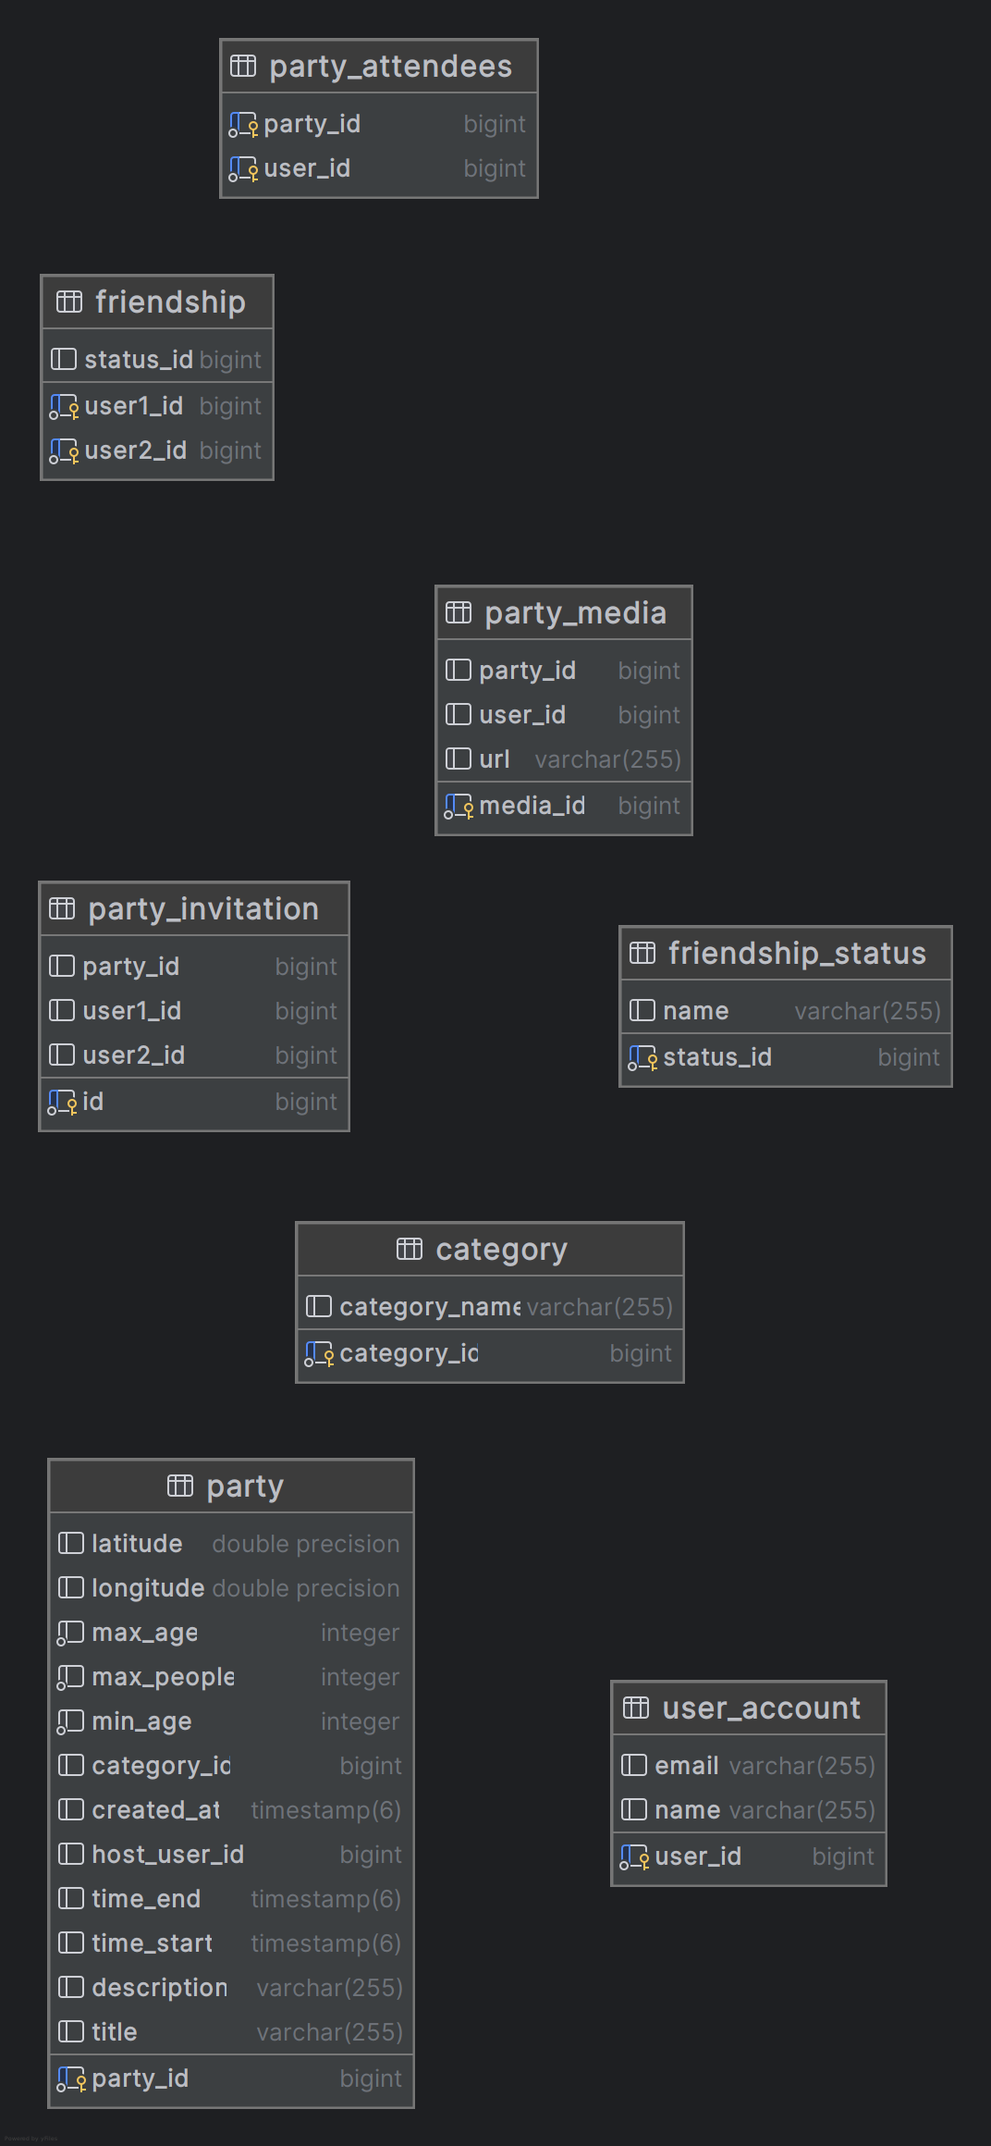
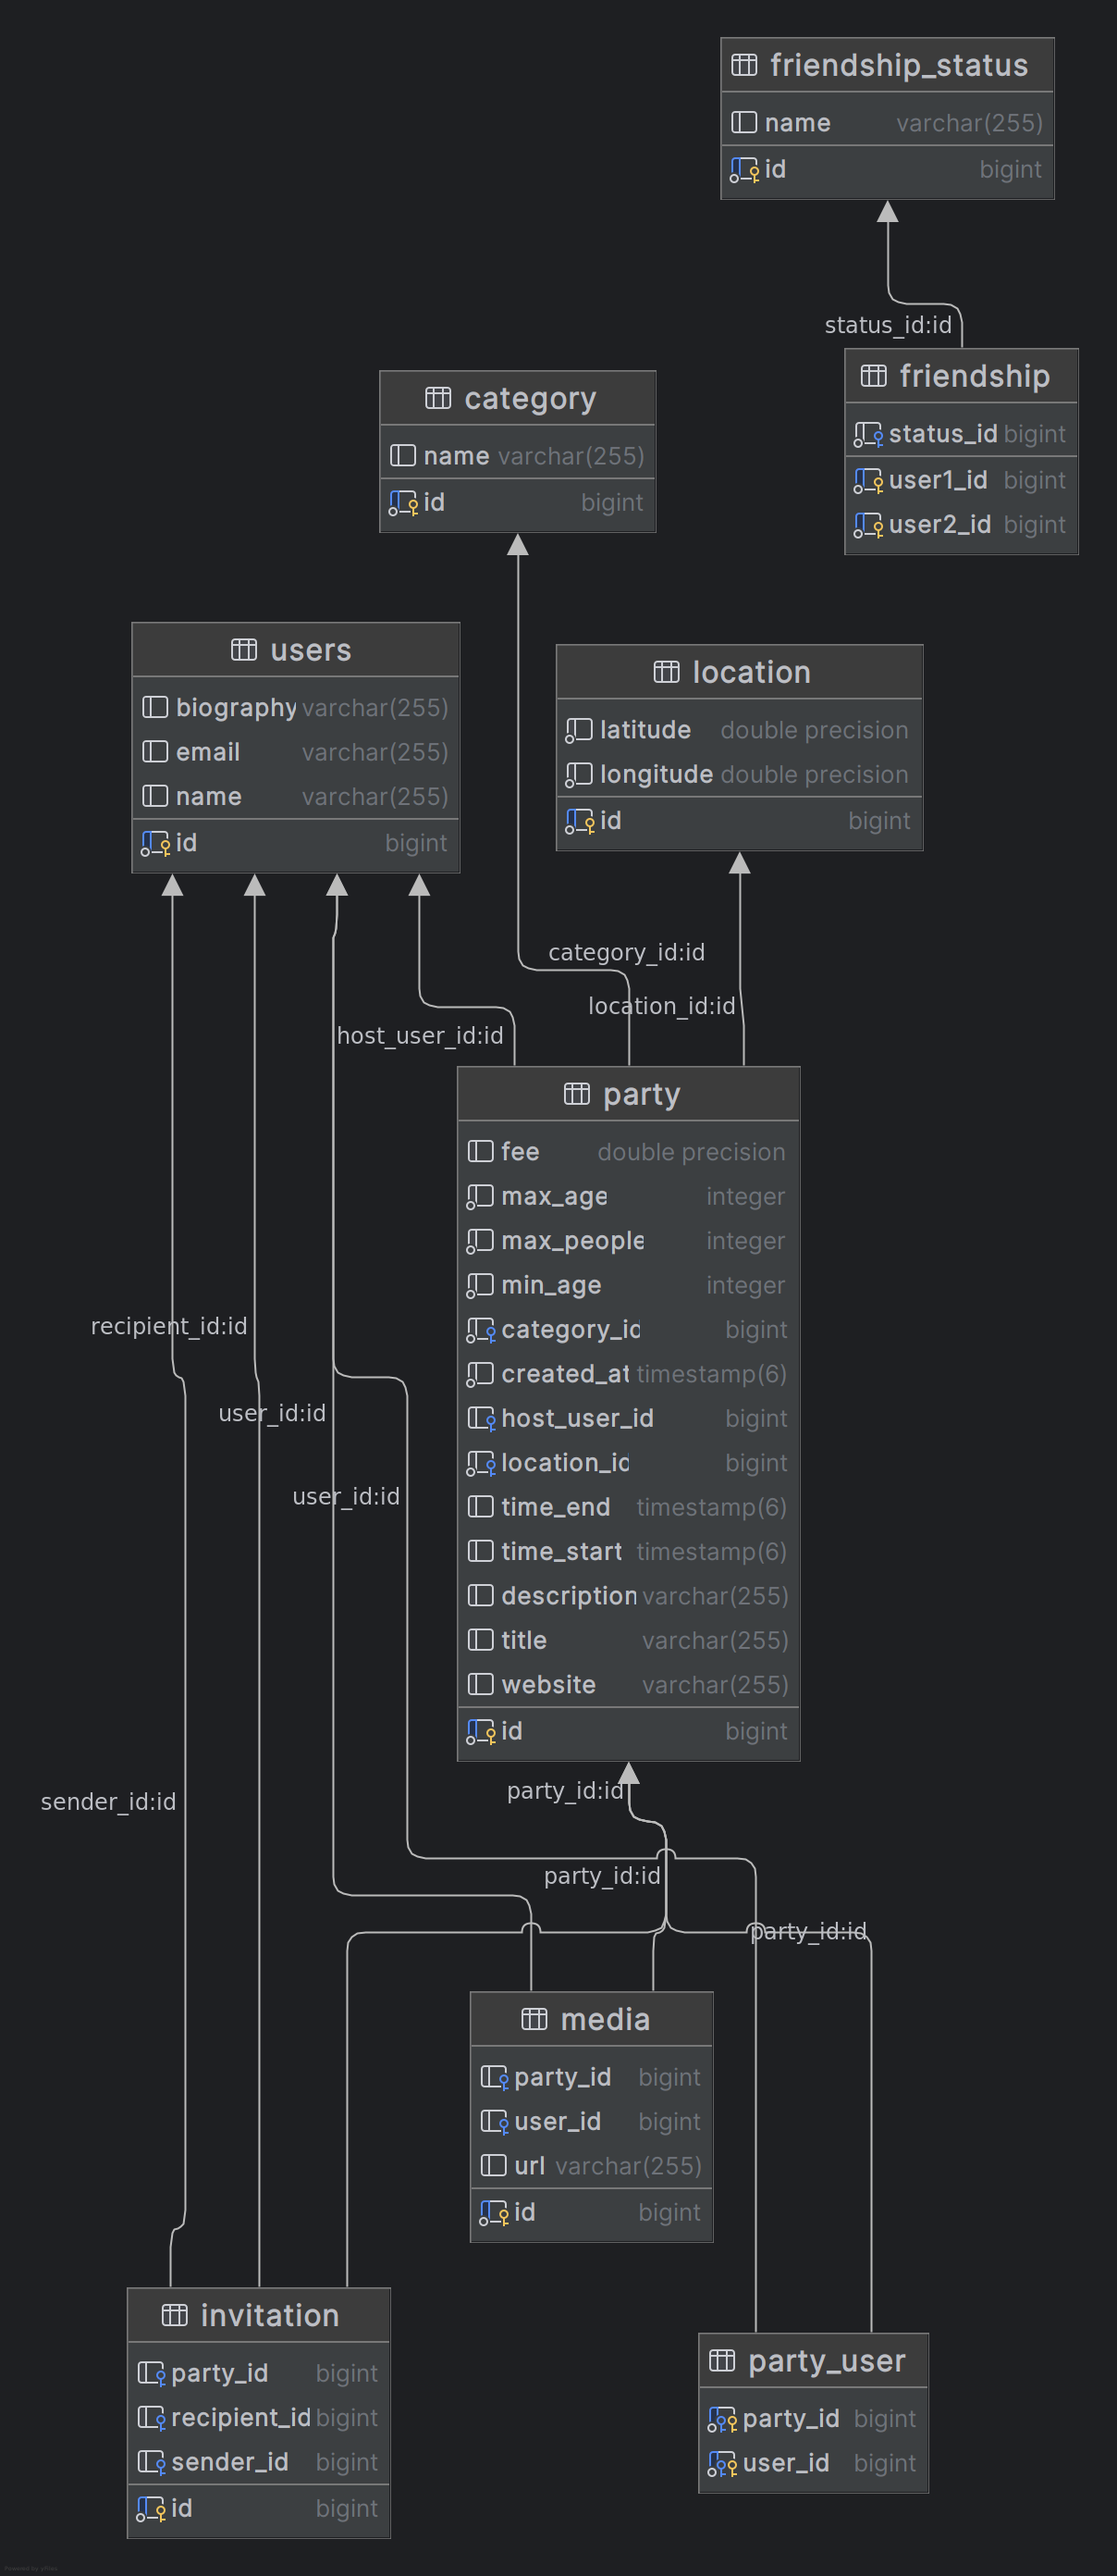
Further tests, Fix Invitations, Update README.md, Update ERD,

diff --git a/src/main/java/at/htl/repository/PartyRepository.java b/src/main/java/at/htl/repository/PartyRepository.java
@@ -10,7 +10,6 @@ import jakarta.enterprise.context.ApplicationScoped;
 import jakarta.inject.Inject;
 import jakarta.persistence.EntityManager;
 import jakarta.persistence.PersistenceException;
-import jakarta.transaction.Transactional;
 import jakarta.ws.rs.BadRequestException;
 import jakarta.ws.rs.core.Response;
 import jakarta.ws.rs.core.UriBuilder;
@@ -170,7 +169,6 @@ public class PartyRepository {
     }
 
     public Response attendParty(Long id){
-        // TODO: Use current user
         Party party = entityManager.find(Party.class, id);
         if (party == null) {
             return Response.status(Response.Status.NOT_FOUND).build();
@@ -192,7 +190,7 @@ public class PartyRepository {
         }
     }
 
-    public Response unattendParty(Long id){
+    public Response leaveParty(Long id){
         Party party = entityManager.find(Party.class, id);
         if (party == null) {
             return Response.status(Response.Status.NOT_FOUND).build();
@@ -239,7 +237,7 @@ public class PartyRepository {
             party.setTime_end(LocalDateTime.parse(partyCreateDto.time_end(), PARTY_DTF));
         } catch (DateTimeParseException e) {
             throw new IllegalArgumentException(
-                    "Invalid date‑time format. Expected 'dd.MM.yyyy HH:mm'.", e);
+                    "Invalid date‑time format", e);
         }
         party.setWebsite(partyCreateDto.website());
 

diff --git a/src/test/java/at/htl/boundary/InvitationResourceTest.java b/src/test/java/at/htl/boundary/InvitationResourceTest.java
@@ -1,0 +1,54 @@
+package at.htl.boundary;
+
+import org.junit.jupiter.api.Test;
+
+import static io.restassured.RestAssured.given;
+import static org.hamcrest.Matchers.emptyArray;
+import static org.hamcrest.Matchers.not;
+import static org.junit.jupiter.api.Assertions.*;
+
+class InvitationResourceTest {
+
+    @Test
+    void invite() {
+        String payload = """
+                {
+                "recipient": 2,
+                "partyId": 2
+                }
+                """ ;
+        given()
+                .contentType("application/json")
+                .body(payload)
+                .when().post("/api/invites/")
+                .then()
+                .statusCode(200)
+                .body(not(emptyArray()));
+    }
+
+    @Test
+    void getReceivedInvites() {
+
+        given()
+                .when().get("/api/invites/rec")
+                .then()
+                .statusCode(200);
+    }
+
+    @Test
+    void getSentInvites() {
+
+        given()
+                .when().get("/api/invites/inv")
+                .then()
+                .statusCode(200);
+    }
+
+    @Test
+    void deleteInvite() {
+        given()
+                .when().delete("/api/invites/2")
+                .then()
+                .statusCode(200);
+    }
+}

diff --git a/src/test/java/at/htl/ApiTest.java b/src/test/java/at/htl/ApiTest.java
@@ -50,7 +50,7 @@ public class ApiTest {
         String randomSortKey = "desc";
 
         given()
-                .when().get("/api/party/sort?" + randomSortKey)
+                .when().get("/api/party/sort?sort=" + randomSortKey)
                 .then()
                 .statusCode(200)
                 .body(not(emptyArray()));
@@ -114,7 +114,7 @@ public class ApiTest {
         given()
                 .when().post("/api/party/" + id + "/attend")
                 .then()
-                .statusCode(200);
+                .statusCode(204);
     }
 
 
@@ -126,7 +126,7 @@ public class ApiTest {
         given()
                 .when().delete("/api/party/" + id + "/attend")
                 .then()
-                .statusCode(200);
+                .statusCode(204);
     }
 
     @Test

diff --git a/src/main/java/at/htl/boundary/InvitationResource.java b/src/main/java/at/htl/boundary/InvitationResource.java
@@ -9,7 +9,7 @@ import jakarta.ws.rs.*;
 import jakarta.ws.rs.core.MediaType;
 import jakarta.ws.rs.core.Response;
 
-@Path("/api/invite")
+@Path("/api/invites")
 @ApplicationScoped
 public class InvitationResource {
     @Inject
@@ -39,7 +39,9 @@ public class InvitationResource {
     }
 
     @DELETE
-    @Path("/invite/{id}")
+    @Produces(MediaType.APPLICATION_JSON)
+    @Path("/{id}")
+    @Transactional
     public Response deleteInvite(@PathParam("id") Long id){
         return invitationRepository.deleteInvite(id);
     }

diff --git a/src/main/java/at/htl/boundary/PartyResource.java b/src/main/java/at/htl/boundary/PartyResource.java
@@ -88,8 +88,8 @@ public class PartyResource {
     @Produces(MediaType.APPLICATION_JSON)
     @Transactional
     @Path("/{id}/attend")
-    public Response unattendParty(@PathParam("id") Long partyId) {
-        return partyRepository.unattendParty(partyId);
+    public Response leaveParty(@PathParam("id") Long partyId) {
+        return partyRepository.leaveParty(partyId);
     }
 
     @GET

diff --git a/README.md b/README.md
@@ -6,6 +6,7 @@
 2. Sprint: 05.11.2025
 3. Sprint: 19.11.2025
 4. Sprint: 03.12.2025
+5. Sprint: 17.12.2025
 
 ## Run Locally
 
@@ -21,10 +22,10 @@ Go to the project directory
   cd Partyhub
 ```
 
-Start the server
+Setup for local development
 
 ```bash
-  ./deploy.sh
+  ./deploy-local.sh
 ```
 
 Open the Website in your Browser
@@ -39,7 +40,8 @@ Open the Website in your Browser
    http://localhost:8080/q/swagger-ui/ 
 ```
 
-## Figma https://www.figma.com/design/kw6GNgxb9VgPkAxHW1AveI/Untitled?node-id=0-1&p=f&t=H4mPfGOefZ6HzJKc-0
+## Figma 
+[PartyHub Figma](https://www.figma.com/design/kw6GNgxb9VgPkAxHW1AveI/Untitled?node-id=0-1&p=f&t=H4mPfGOefZ6HzJKc-0)
 
 ## Screenshots
 
